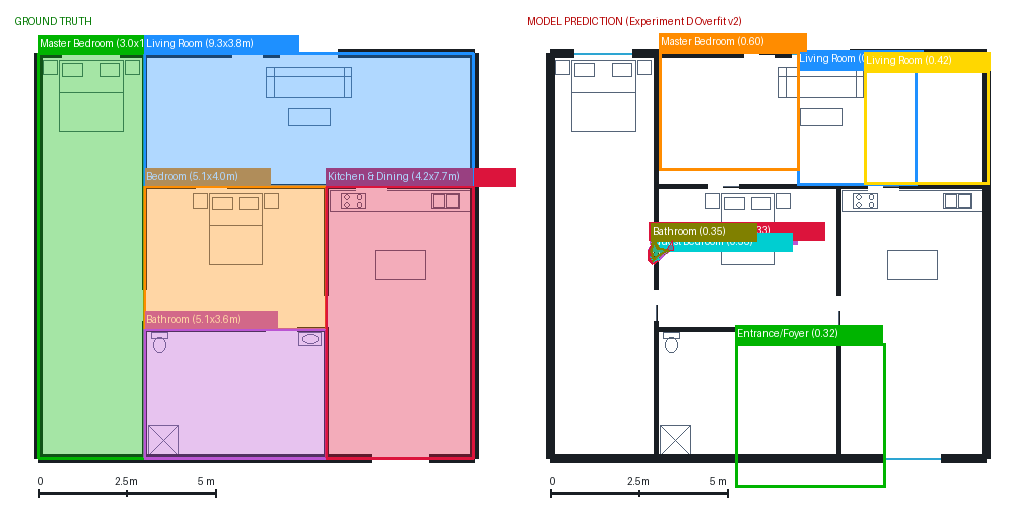
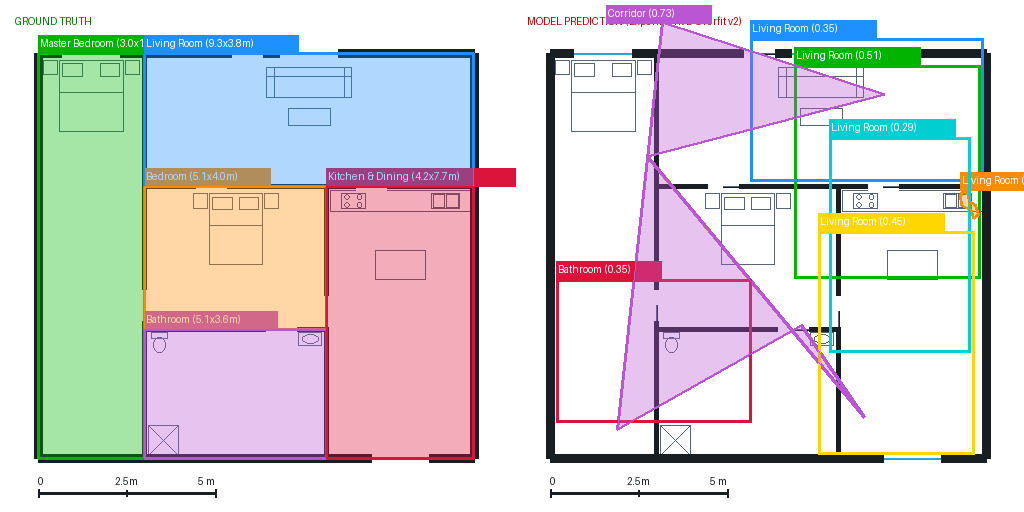
v25.0 : feat: Update evaluation metrics and improve model initialization in OverfitMultiTaskViT

Changed region(s): [[0.5312, 0.0, 1.0, 0.8438], [0.7812, 0.875, 0.9688, 0.9062], [0.7188, 0.9375, 0.875, 0.9688]]

diff --git a/run_30_overfit_test_v2.py b/run_30_overfit_test_v2.py
@@ -81,6 +81,8 @@ class OverfitMultiTaskViT(nn.Module):
             nn.ReLU(),
             nn.Linear(64, 1),
         )
+        # Initialize bias to 4.0 (~55 px/m) to avoid large initial scale loss
+        nn.init.constant_(self.scale_head[-1].bias, 4.0)
 
         # 2. Query Embeddings & Transformer Decoder
         self.query_embed = nn.Embedding(num_queries, hidden_dim)
@@ -336,7 +338,7 @@ def compute_eval_metrics_v2(model, dataloader, device, conf_thresh=0.25, iou_thr
             tgt_boxes = targets[b]["boxes"].to(device)
             num_gt = len(tgt_labels)
 
-            # Max over ALL 23 classes
+            # Max over ALL 23 classes (22 room classes + 1 background)
             top_scores, top_classes = probs[b].max(dim=-1)
 
             # Query is kept ONLY IF winning class is NOT background (22) AND score >= conf_thresh
@@ -403,13 +405,9 @@ def compute_eval_metrics_v2(model, dataloader, device, conf_thresh=0.25, iou_thr
 
 def visualize_v2(model, dataset, device, out_path, sample_idx=0, conf_thresh=0.25):
     model.eval()
-    sample = dataset.items[sample_idx] if hasattr(dataset, "items") else dataset.samples[sample_idx]
-    orig_img_path = Path("HomeVerse-Dataset") / sample["image_id"].replace("homeverse_", "images/train/homeverse_")
-    if not orig_img_path.with_suffix(".png").exists():
-        # Fallback to direct path in sample
-        orig_img_path = Path("HomeVerse-Dataset") / sample.get("image_path", "")
-    else:
-        orig_img_path = orig_img_path.with_suffix(".png")
+    sample_entry = dataset.items[sample_idx] if hasattr(dataset, "items") else dataset.samples[sample_idx]
+    sample = sample_entry.get("sample_meta", sample_entry)
+    orig_img_path = Path("HomeVerse-Dataset") / sample["image_path"]
 
     orig_img = Image.open(orig_img_path).convert("RGB")
     orig_w, orig_h = orig_img.size
@@ -503,11 +501,11 @@ def visualize_v2(model, dataset, device, out_path, sample_idx=0, conf_thresh=0.2
 # Main Training Loop for Experiment D
 # =====================================================================
 
-def run_experiment_d(epochs=150, batch_size=6, img_size=224):
+def run_experiment_d(epochs=150, batch_size=5, img_size=224):
     num_threads = min(12, os.cpu_count() or 4)
     torch.set_num_threads(num_threads)
     device = torch.device("cuda" if torch.cuda.is_available() else "cpu")
-    print(f"Device: {device} | Threads: {num_threads} | Image resolution: {img_size}x{img_size}", flush=True)
+    print(f"Device: {device} | Threads: {num_threads} | Image resolution: {img_size}x{img_size} | Epochs: {epochs} | Batch size: {batch_size}", flush=True)
 
     # 1. Load and Pre-cache all 30 samples in RAM for 0.0ms loading overhead
     base_ds = FloorplanDataset("HomeVerse-Dataset", split="train", img_size=img_size, max_samples=30)
@@ -529,18 +527,32 @@ def run_experiment_d(epochs=150, batch_size=6, img_size=224):
 
     model = OverfitMultiTaskViT(pretrained_model_name="google/vit-base-patch16-224", img_size=img_size).to(device)
 
+    # Transfer detector head weights if available
+    ckpt_path = Path("checkpoints/multitask/multitask_vit_best.pt")
+    if ckpt_path.exists():
+        print(f"Transferring starting detector head weights from {ckpt_path}...", flush=True)
+        ckpt = torch.load(ckpt_path, map_location=device)
+        head_weights = {k: v for k, v in ckpt.items() if not k.startswith("scale_head") and not k.startswith("encoder")}
+        missing, unexpected = model.load_state_dict(head_weights, strict=False)
+        print(f"Transferred {len(head_weights)} weight tensors. (Missing: {len(missing)})", flush=True)
+
     # 4. Partial ViT Unfreezing:
-    # Freeze embeddings and layers 0..8. Unfreeze layers 9..11 (top 3 blocks) + layernorm.
+    # Freeze embeddings and layers 0..7. Unfreeze layers 8..11 (top 4 blocks) + layernorm.
     for p in model.encoder.embeddings.parameters():
         p.requires_grad = False
-    for layer in model.encoder.layers[:9]:
+
+    vit_layers = model.encoder.layers if hasattr(model.encoder, "layers") else model.encoder.encoder.layer
+    for layer in vit_layers[:8]:
         for p in layer.parameters():
             p.requires_grad = False
-    for layer in model.encoder.layers[9:]:
+    for layer in vit_layers[8:]:
         for p in layer.parameters():
             p.requires_grad = True
     for p in model.encoder.layernorm.parameters():
         p.requires_grad = True
+    if hasattr(model.encoder, "pooler") and model.encoder.pooler is not None:
+        for p in model.encoder.pooler.parameters():
+            p.requires_grad = False
 
     vit_trainable = [p for p in model.encoder.parameters() if p.requires_grad]
     head_trainable = (
@@ -551,7 +563,7 @@ def run_experiment_d(epochs=150, batch_size=6, img_size=224):
         list(model.seg_head.parameters()) +
         list(model.scale_head.parameters())
     )
-    print(f"Trainable params: ViT top-3 blocks: {len(vit_trainable)}, Decoder & Heads: {len(head_trainable)}", flush=True)
+    print(f"Trainable params: ViT top-4 blocks: {len(vit_trainable)}, Decoder & Heads: {len(head_trainable)}", flush=True)
 
     matcher = HungarianMatcher(cost_class=1.0, cost_bbox=5.0, cost_giou=2.0)
     criterion = OverfitCriterion(
@@ -564,12 +576,12 @@ def run_experiment_d(epochs=150, batch_size=6, img_size=224):
         eos_coef=0.1
     ).to(device)
 
-    # Differential Learning Rates: 2.5e-5 for ViT top layers, 5e-4 for Decoder & Heads
+    # Differential Learning Rates: 1.5e-5 for ViT top layers, 1.5e-4 for Decoder & Heads
     optimizer = torch.optim.AdamW([
-        {"params": vit_trainable, "lr": 2.5e-5, "weight_decay": 1e-4},
-        {"params": head_trainable, "lr": 5e-4, "weight_decay": 1e-5},
+        {"params": vit_trainable, "lr": 1.5e-5, "weight_decay": 1e-4},
+        {"params": head_trainable, "lr": 1.5e-4, "weight_decay": 1e-5},
     ])
-    scheduler = torch.optim.lr_scheduler.CosineAnnealingLR(optimizer, T_max=epochs, eta_min=1e-5)
+    scheduler = torch.optim.lr_scheduler.CosineAnnealingLR(optimizer, T_max=epochs, eta_min=1e-6)
 
     print("\n" + "=" * 75, flush=True)
     print(f"STARTING EXPERIMENT D: 30-IMAGE OVERFIT TEST v2 ({epochs} EPOCHS)", flush=True)
@@ -615,8 +627,8 @@ def run_experiment_d(epochs=150, batch_size=6, img_size=224):
         avg_mask = tot_mask / batches
         avg_scale = tot_scale / batches
 
-        # Periodic evaluation every 15 epochs, first epoch, and last epoch
-        if epoch % 15 == 0 or epoch == 1 or epoch == epochs:
+        # Periodic evaluation every 10 epochs, first epoch, and last epoch
+        if epoch % 10 == 0 or epoch == 1 or epoch == epochs:
             eval_metrics = compute_eval_metrics_v2(model, eval_loader, device, conf_thresh=0.25)
             print(
                 f"Epoch {epoch:03d}/{epochs} | "
@@ -685,7 +697,7 @@ if __name__ == "__main__":
     import argparse
     parser = argparse.ArgumentParser()
     parser.add_argument("--epochs", type=int, default=150)
-    parser.add_argument("--batch-size", type=int, default=6)
+    parser.add_argument("--batch-size", type=int, default=5)
     parser.add_argument("--img-size", type=int, default=224)
     args = parser.parse_args()
 

diff --git a/multitask_vit.py b/multitask_vit.py
@@ -189,9 +189,10 @@ class MultiTaskViT(nn.Module):
         raw_scale = pred_scale_ppm * (max(orig_w, orig_h) / 1024.0)
 
         probs = pred_logits.softmax(-1)
-        scores, labels = probs[:, :self.num_classes].max(dim=-1)
+        scores, labels = probs.max(dim=-1)
 
-        keep = scores >= conf_threshold
+        # Winning class must NOT be background (no-room) AND score >= conf_threshold
+        keep = (labels != self.num_classes) & (scores >= conf_threshold)
         if keep.sum() == 0:
             return {
                 "image_path": str(image_path),
